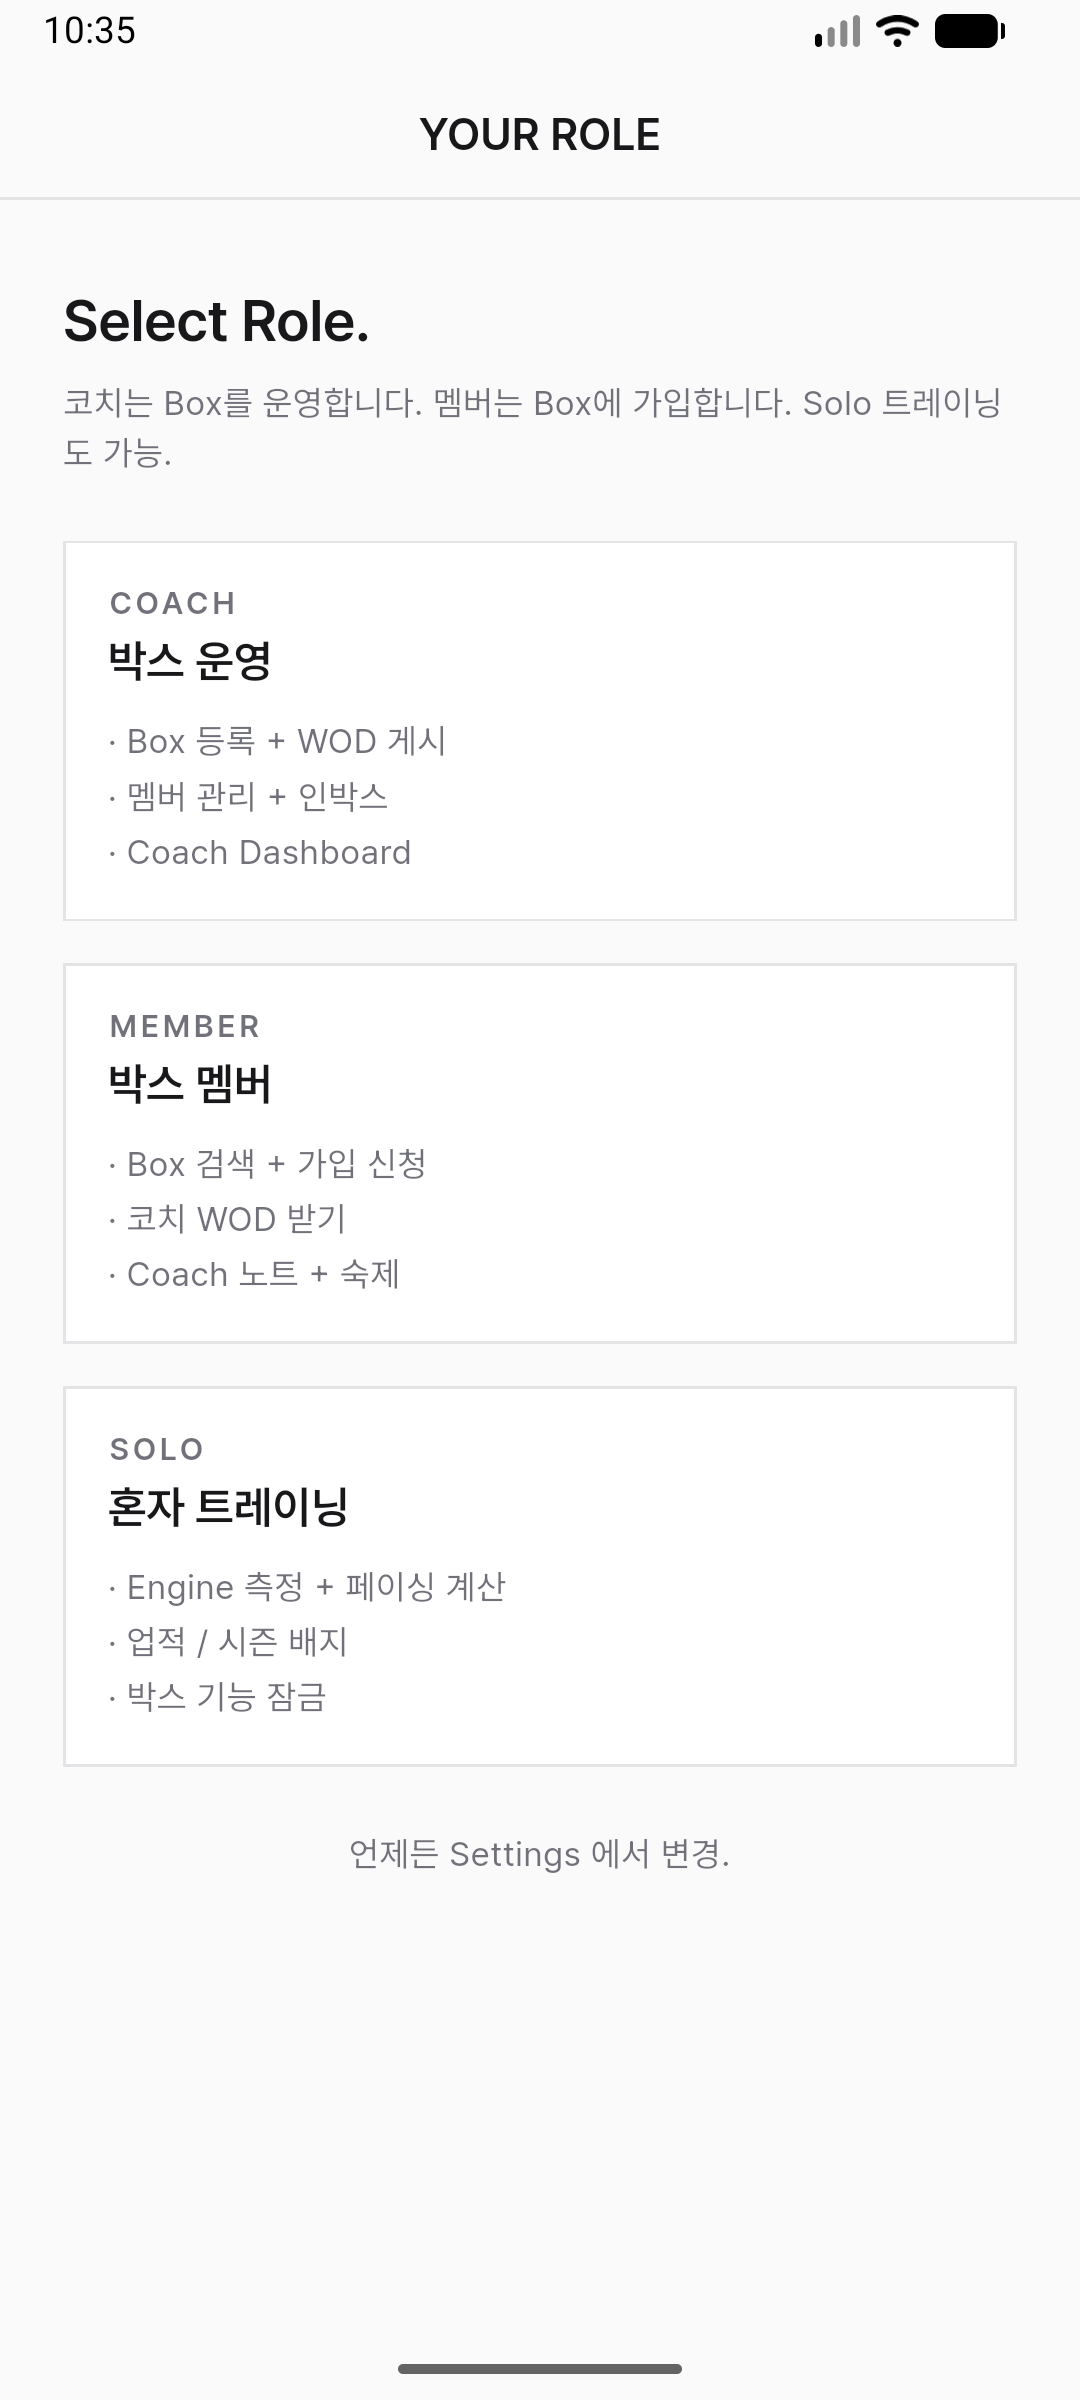
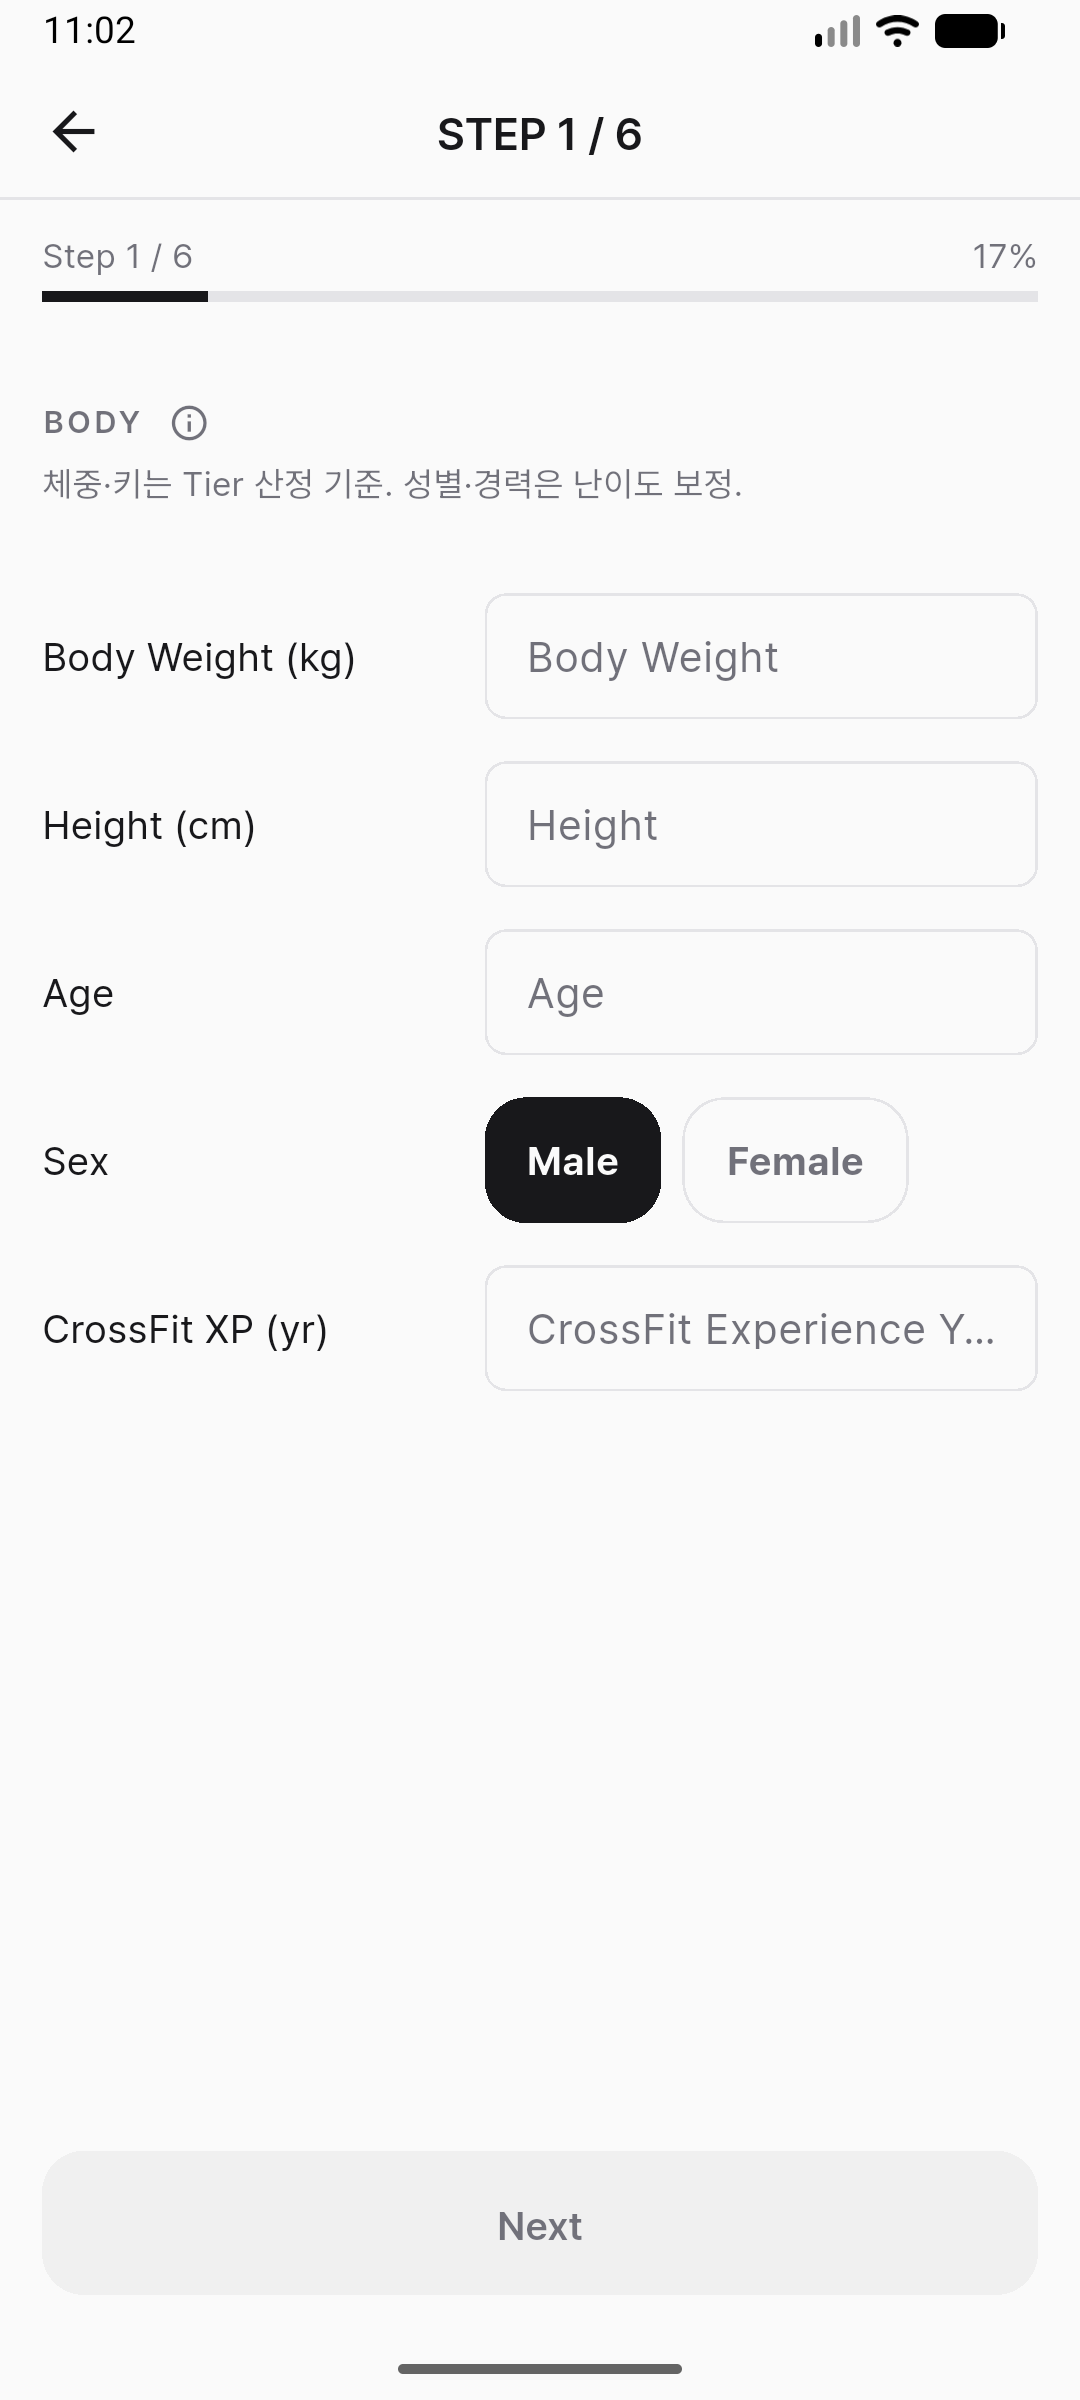
feat(auth): 회원·코치·사장 소셜 로그인 통일 골격 (D26)
- SocialAuthService 인터페이스 + StubSocialAuthService(가짜 버튼) 추가.
  실 OAuth 는 RealSocialAuthService 1개 교체로 활성 (Naver/Google, PKCE).
- 로그인 화면 Kakao→Google 교체 (네이버+구글). Box Owner Login 은 전환기 fallback.
- 로그인 응답 role 로 자동 분기 → 수동 mode_select/role_entry 화면 흐름서 제거.
  splash·onboarding_grade 가 shell 직행. 데모 계정도 role 자동 분기.
- ARCHITECTURE_BRIEF D26 등록 + D2·D3·§7 대체 표시.
- theme: googleSurface/googleBlue 토큰 추가.

diff --git a/lib/features/auth/signup_screen.dart b/lib/features/auth/signup_screen.dart
@@ -5,14 +5,17 @@ import '../../core/api_client.dart';
 import '../../core/device_id.dart';
 import '../../core/haptic.dart';
 import '../../core/theme.dart';
+import '../../core/app_mode.dart';
 import '../gym/gym_state.dart';
 import '../profile/profile_state.dart';
 import 'auth_state.dart';
 import 'demo_accounts.dart';
+import 'social_auth_service.dart';
 
-/// v1.16: 최초 진입 회원가입 화면.
-/// 데모: Naver·Kakao 버튼 탭 시 AuthState.signIn만 기록하고 다음 단계로 이동.
-/// 실제 OAuth는 Phase 2.
+/// 최초 진입 로그인 화면 (D26 — 회원·코치·사장 전원 소셜 로그인 통일).
+/// 현재는 [StubSocialAuthService] (가짜 버튼) — provider 탭 시 즉시 성공 흉내
+/// 후 서버가 내려준 role 로 자동 분기. 실 OAuth 는 [RealSocialAuthService]
+/// 1개 교체로 활성 (security.md OAuth 2.1 + PKCE).
 class SignupScreen extends StatefulWidget {
   const SignupScreen({super.key});
 
@@ -23,20 +26,56 @@ class SignupScreen extends StatefulWidget {
 class _SignupScreenState extends State<SignupScreen> {
   bool _busy = false;
 
-  static const Color _naverGreen = FacingTokens.naverGreen;
-  static const Color _kakaoYellow = FacingTokens.kakaoYellow;
-  // v1.16 Sprint 9b: WCAG AA 대비 강화. #FEE500 vs Colors.black 대비비 19.56:1 (AAA).
-  static const Color _kakaoBrown = Colors.black;
+  static const SocialAuthService _social = StubSocialAuthService();
 
-  Future<void> _signIn(String provider) async {
+  static const Color _naverGreen = FacingTokens.naverGreen;
+  static const Color _googleSurface = FacingTokens.googleSurface;
+  static const Color _googleBlue = FacingTokens.googleBlue;
+
+  /// D26: provider 탭 → SocialAuthService → 서버 role 로 자동 분기.
+  /// (현재 stub: role=solo 반환. 실 OAuth 시 박스 연결로 boss/coach/member 결정.)
+  Future<void> _signIn(SocialProvider provider) async {
     if (_busy) return;
     setState(() => _busy = true);
     Haptic.medium();
     final auth = context.read<AuthState>();
-    await auth.signIn(provider);
-    if (!mounted) return;
-    // 로그인 후 → role-entry 에서 회원/코치 vs 사장/매니저 선택
-    Navigator.of(context).pushReplacementNamed('/role-entry');
+    final profile = context.read<ProfileState>();
+    final messenger = ScaffoldMessenger.of(context);
+    final navigator = Navigator.of(context);
+    try {
+      final result = await _social.signIn(provider);
+      await auth.signIn(provider.wireName, displayName: result.displayName);
+      if (!mounted) return;
+      _routeByRole(navigator, result.role, profile);
+    } on SocialAuthException catch (e) {
+      if (!mounted) return;
+      setState(() => _busy = false);
+      messenger.showSnackBar(SnackBar(content: Text(e.message)));
+    } catch (_) {
+      if (!mounted) return;
+      setState(() => _busy = false);
+      messenger.showSnackBar(
+        const SnackBar(content: Text('Login failed. Retry.')),
+      );
+    }
+  }
+
+  /// 서버가 내려준 role 로 직접 분기 — 수동 mode_select·role_entry 화면 폐기 (D26).
+  void _routeByRole(
+    NavigatorState navigator,
+    SocialRole role,
+    ProfileState profile,
+  ) {
+    if (role == SocialRole.boss) {
+      // 사장: 실 OAuth 시 서버 세션 수립 후 대시보드. stub 전환기엔 ID/PW fallback.
+      navigator.pushNamed('/boss/login');
+      return;
+    }
+    final mode = role.toAppMode();
+    if (mode != null) AppModeStore.set(mode);
+    // 프로필(등급) 없으면 온보딩, 있으면 바로 shell.
+    final next = profile.hasGrade ? '/shell' : '/onboarding/basic';
+    navigator.pushNamedAndRemoveUntil(next, (_) => false);
   }
 
   /// v1.16 Sprint 8 U1: 데모 계정 선택 → 프로필 프리로드 + grade 계산 + Shell 진입.
@@ -85,8 +124,16 @@ class _SignupScreenState extends State<SignupScreen> {
       } catch (_) {}
     }
     if (!mounted) return;
-    // 데모 계정도 로그인 후 → role-entry 에서 역할 선택
-    Navigator.of(context).pushReplacementNamed('/role-entry');
+    // D26: 데모 계정은 role 을 이미 알고 있으므로 role-entry 없이 바로 분기.
+    final mode = switch (demo.role) {
+      'coach' => AppMode.coach,
+      'solo' => AppMode.solo,
+      _ => AppMode.member, // member · pending
+    };
+    await AppModeStore.set(mode);
+    if (!mounted) return;
+    final next = profile.hasGrade ? '/shell' : '/onboarding/basic';
+    Navigator.of(context).pushNamedAndRemoveUntil(next, (_) => false);
   }
 
   @override
@@ -119,17 +166,20 @@ class _SignupScreenState extends State<SignupScreen> {
                   background: _naverGreen,
                   foreground: Colors.white,
                   markText: 'N',
-                  onPressed: _busy ? null : () => _signIn('naver'),
+                  onPressed:
+                      _busy ? null : () => _signIn(SocialProvider.naver),
                 ),
                 const SizedBox(height: FacingTokens.sp3),
 
-                // Kakao
+                // Google
                 _SocialButton(
-                  label: '카카오로 시작',
-                  background: _kakaoYellow,
-                  foreground: _kakaoBrown,
-                  markText: 'K',
-                  onPressed: _busy ? null : () => _signIn('kakao'),
+                  label: '구글로 시작',
+                  background: _googleSurface,
+                  foreground: Colors.black,
+                  markText: 'G',
+                  markColor: _googleBlue,
+                  onPressed:
+                      _busy ? null : () => _signIn(SocialProvider.google),
                 ),
 
                 const SizedBox(height: FacingTokens.sp4),
@@ -282,6 +332,7 @@ class _SocialButton extends StatelessWidget {
   final Color background;
   final Color foreground;
   final String markText;
+  final Color? markColor;
   final VoidCallback? onPressed;
 
   const _SocialButton({
@@ -290,6 +341,7 @@ class _SocialButton extends StatelessWidget {
     required this.foreground,
     required this.markText,
     required this.onPressed,
+    this.markColor,
   });
 
   @override
@@ -309,7 +361,7 @@ class _SocialButton extends StatelessWidget {
               Text(
                 markText,
                 style: FacingTokens.h3.copyWith(
-                  color: foreground,
+                  color: markColor ?? foreground,
                   fontWeight: FontWeight.w900,
                 ),
               ),

diff --git a/lib/features/auth/social_auth_service.dart b/lib/features/auth/social_auth_service.dart
@@ -1,0 +1,95 @@
+import '../../core/app_mode.dart';
+
+/// 서버가 결정하는 역할 (D26). boss 는 폰 보조 운영(BossAuthState) 경로로,
+/// coach·member·solo 는 [AppMode] 폰 shell 로 분기된다.
+enum SocialRole {
+  boss,
+  coach,
+  member,
+  solo;
+
+  /// 폰 shell 모드 매핑. boss 는 별도 경로라 null.
+  AppMode? toAppMode() => switch (this) {
+        SocialRole.coach => AppMode.coach,
+        SocialRole.member => AppMode.member,
+        SocialRole.solo => AppMode.solo,
+        SocialRole.boss => null,
+      };
+}
+
+/// D26 (2026-06-03) — 소셜 로그인 통일 추상화 층.
+///
+/// 회원·코치·사장 전원 네이버·구글 로그인. 현재는 [StubSocialAuthService]
+/// (가짜 버튼) 가 기본. 실 OAuth 활성화는 [RealSocialAuthService] 1개를
+/// 끼우면 끝 — 화면·라우팅 코드는 인터페이스에만 의존하므로 변경 0줄.
+///
+/// 실 OAuth 계약 (Phase 2):
+/// 1. 앱이 provider SDK 로 Authorization Code + PKCE 흐름 수행 → id_token/access_token 획득
+/// 2. 백엔드 `POST /api/v1/auth/social` 에 토큰 전달 → 서버가 검증·계정 upsert·role 결정
+/// 3. 응답으로 [SocialAuthResult] (role 포함) 수신 → 앱이 자동 분기
+enum SocialProvider {
+  naver,
+  google;
+
+  String get wireName => name; // 'naver' | 'google' — 백엔드 전달용
+}
+
+/// 로그인 결과 계약. role 한 줄이 자동 분기의 핵심.
+class SocialAuthResult {
+  final SocialProvider provider;
+
+  /// 백엔드가 부여하는 안정 식별자 (provider + uid 조합으로 계정 unique).
+  final String providerUid;
+  final String displayName;
+  final String? email;
+
+  /// 서버가 결정한 역할. 박스에 사장/코치/회원으로 연결됐으면 그 역할,
+  /// 아무 박스에도 안 엮였으면 [SocialRole.solo].
+  final SocialRole role;
+
+  const SocialAuthResult({
+    required this.provider,
+    required this.providerUid,
+    required this.displayName,
+    required this.role,
+    this.email,
+  });
+}
+
+/// 로그인 실패 (사용자 취소·네트워크·토큰 검증 실패).
+class SocialAuthException implements Exception {
+  final String message;
+  final String code;
+  const SocialAuthException(this.message, this.code);
+  @override
+  String toString() => 'SocialAuthException($code): $message';
+}
+
+/// 갈아끼우기 지점. 화면은 이 인터페이스에만 의존한다.
+abstract class SocialAuthService {
+  Future<SocialAuthResult> signIn(SocialProvider provider);
+}
+
+/// 현재 기본 구현 — 가짜 버튼. 실제 OAuth 통신 0.
+///
+/// provider 탭 → 즉시 성공한 것처럼 결과 반환. role 은 [AppMode.solo]
+/// (신규 계정 = 아직 어느 박스에도 안 엮임). 코치·회원·사장 데모 진입은
+/// 별도 DEMO ACCOUNTS 버튼이 담당 (백엔드 페르소나 시드).
+class StubSocialAuthService implements SocialAuthService {
+  const StubSocialAuthService();
+
+  @override
+  Future<SocialAuthResult> signIn(SocialProvider provider) async {
+    // 실 OAuth 의 네트워크 지연을 흉내내 UX 일관성만 맞춤.
+    await Future<void>.delayed(const Duration(milliseconds: 350));
+    return SocialAuthResult(
+      provider: provider,
+      providerUid: 'stub-${provider.wireName}',
+      displayName: switch (provider) {
+        SocialProvider.naver => 'Naver User',
+        SocialProvider.google => 'Google User',
+      },
+      role: SocialRole.solo,
+    );
+  }
+}

diff --git a/lib/features/splash/splash_screen.dart b/lib/features/splash/splash_screen.dart
@@ -3,7 +3,6 @@ import 'package:provider/provider.dart';
 import 'package:shared_preferences/shared_preferences.dart';
 
 import '../../core/api_client.dart';
-import '../../core/app_mode.dart';
 import '../../core/device_id.dart';
 import '../../core/haptic.dart';
 import '../../core/notification_service.dart';
@@ -105,23 +104,15 @@ class _SplashScreenState extends State<SplashScreen>
     }
     if (!mounted) return;
 
-    AppMode? mode;
-    try {
-      mode = await AppModeStore.get();
-    } catch (_) {
-      mode = null;
-    }
-    if (!mounted) return;
-
     await Future.delayed(const Duration(milliseconds: 2500));
     if (!mounted) return;
-    _onStart(introSeen: introSeen, mode: mode);
+    _onStart(introSeen: introSeen);
   }
 
   /// v1.16 + PHASE5: 로그인 상태 분기.
   /// boss 세션 살아있으면 → /boss/dashboard 직행.
   /// 아니면 기존 회원·코치 플로우.
-  void _onStart({required bool introSeen, required AppMode? mode}) {
+  void _onStart({required bool introSeen}) {
     final profile  = context.read<ProfileState>();
     final auth     = context.read<AuthState>();
     final bossAuth = context.read<BossAuthState>();
@@ -135,7 +126,8 @@ class _SplashScreenState extends State<SplashScreen>
     if (!auth.isSignedIn) {
       next = '/signup'; // 미로그인 → 소셜 로그인 화면 먼저
     } else if (profile.hasGrade) {
-      next = mode == null ? '/onboarding/mode' : '/shell';
+      // D26: 역할은 로그인 시 결정됨 — 수동 mode-select 폐기. shell 직행.
+      next = '/shell';
     } else if (!introSeen) {
       next = '/intro';
     } else {

diff --git a/lib/features/onboarding/onboarding_grade.dart b/lib/features/onboarding/onboarding_grade.dart
@@ -207,8 +207,9 @@ class _OnboardingGradeScreenState extends State<OnboardingGradeScreen> {
                 child: ElevatedButton(
                   onPressed: () {
                     Haptic.medium();
+                    // D26: 역할은 로그인 시 결정됨 — 수동 mode-select 폐기, 바로 shell.
                     Navigator.of(context)
-                        .pushNamedAndRemoveUntil('/onboarding/mode', (_) => false);
+                        .pushNamedAndRemoveUntil('/shell', (_) => false);
                   },
                   child: const Text('Next'),
                 ),

diff --git a/lib/core/theme.dart b/lib/core/theme.dart
@@ -72,6 +72,9 @@ class FacingTokens {
   // ==== 외부 브랜드 색 (소셜 로그인 전용) ====
   static const Color naverGreen = Color(0xFF03C75A);
   static const Color kakaoYellow = Color(0xFFFEE500);
+  /// Google 버튼 — 흰 배경 + 어두운 텍스트 (Google 브랜드 가이드). G 마크 파랑.
+  static const Color googleSurface = Color(0xFFFFFFFF);
+  static const Color googleBlue = Color(0xFF4285F4);
 
   // ==== Tier 색상 (라이트 배경에서 WCAG AA, PC facing-admin 동기화) ====
   /// Scaled — neutral zinc-600.

diff --git a/lib/core/app_mode.dart b/lib/core/app_mode.dart
@@ -7,7 +7,7 @@ import 'package:shared_preferences/shared_preferences.dart';
 enum AppMode { coach, member, solo }
 
 /// SharedPreferences 'app_mode' 키 wrapper.
-/// Splash 의 _bootstrap → mode 미설정 시 ModeSelectScreen 진입 분기.
+/// D26 (2026-06-03): 로그인 시 서버 role 로 자동 set. 수동 ModeSelectScreen 폐기.
 class AppModeStore {
   static const _key = 'app_mode';
 
